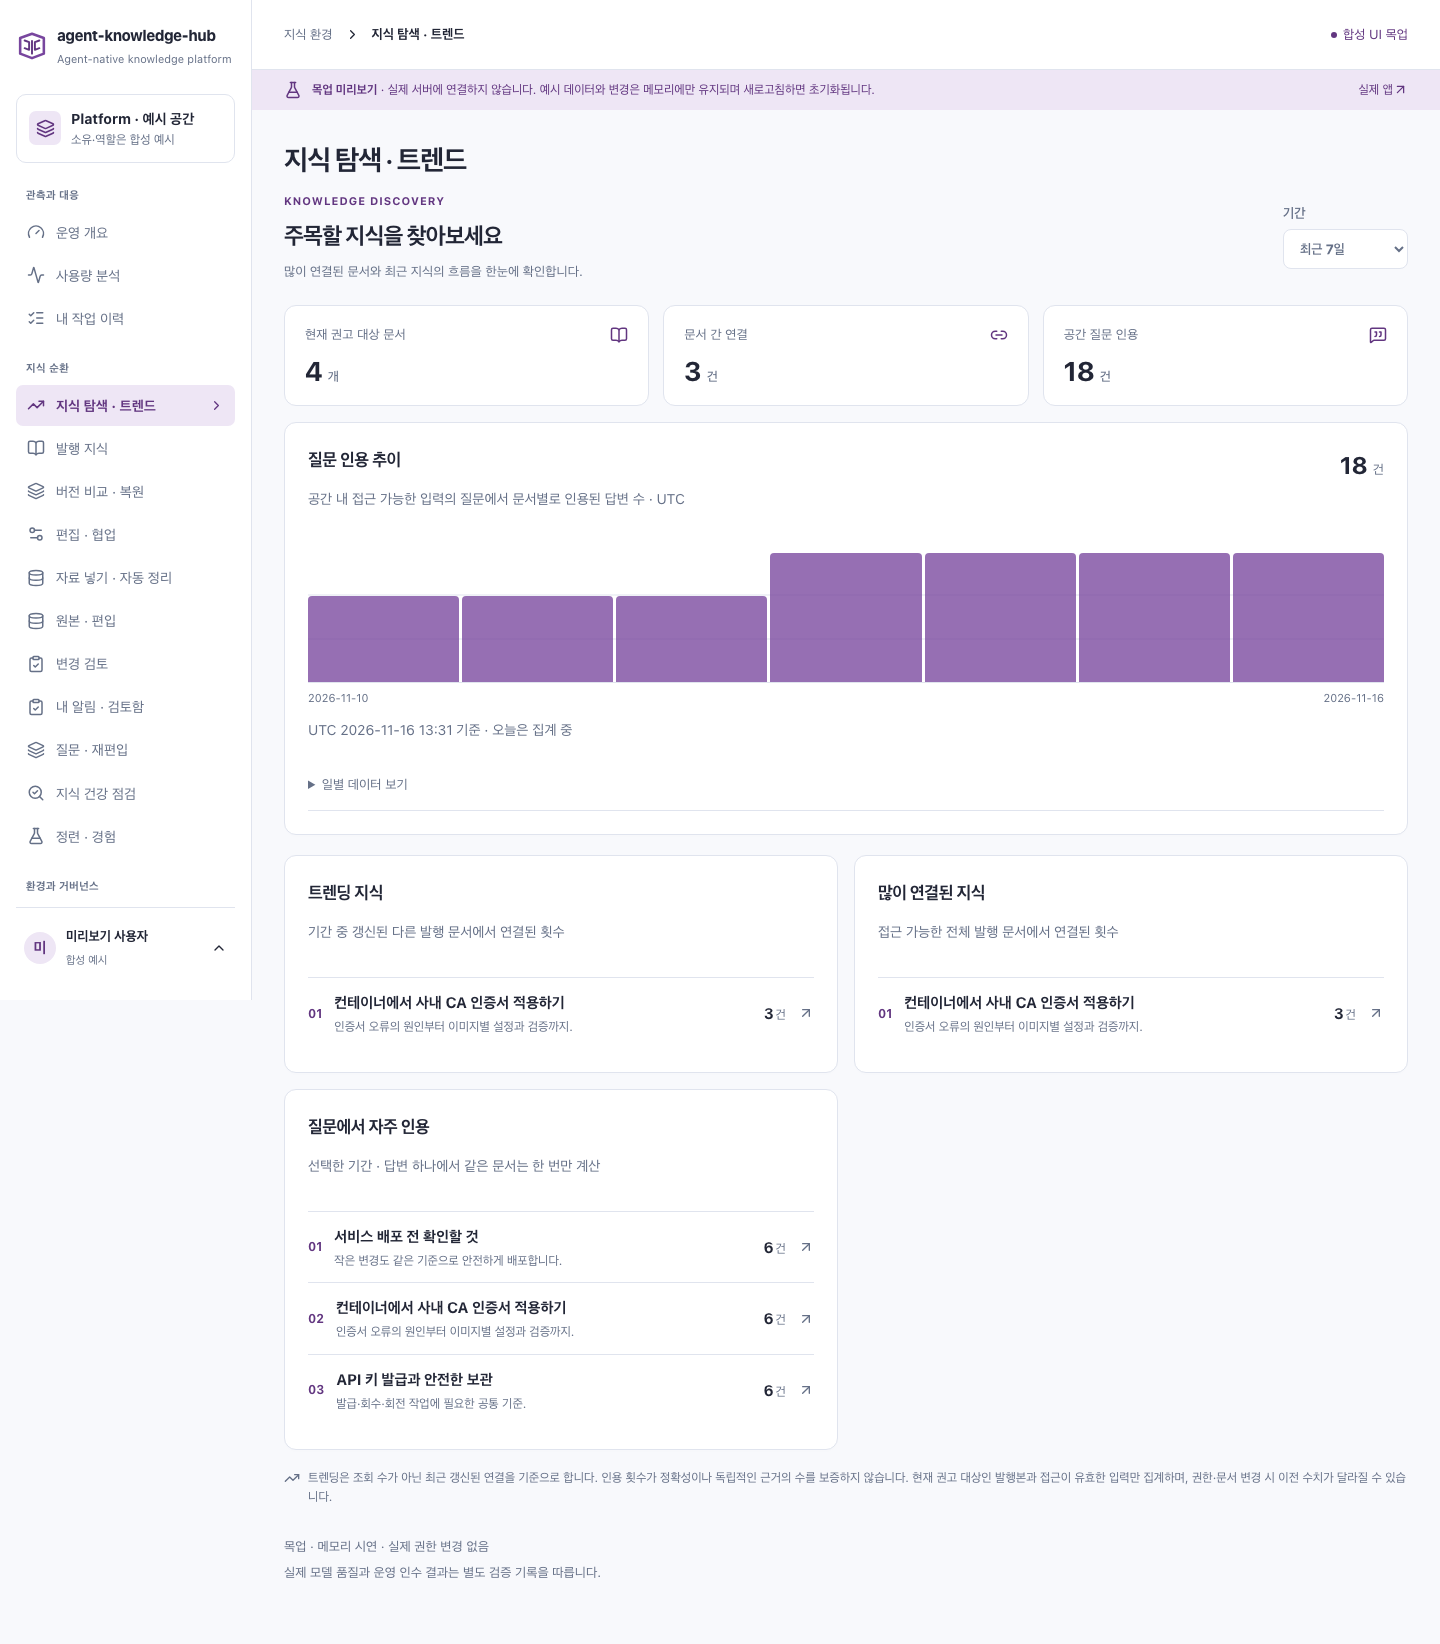
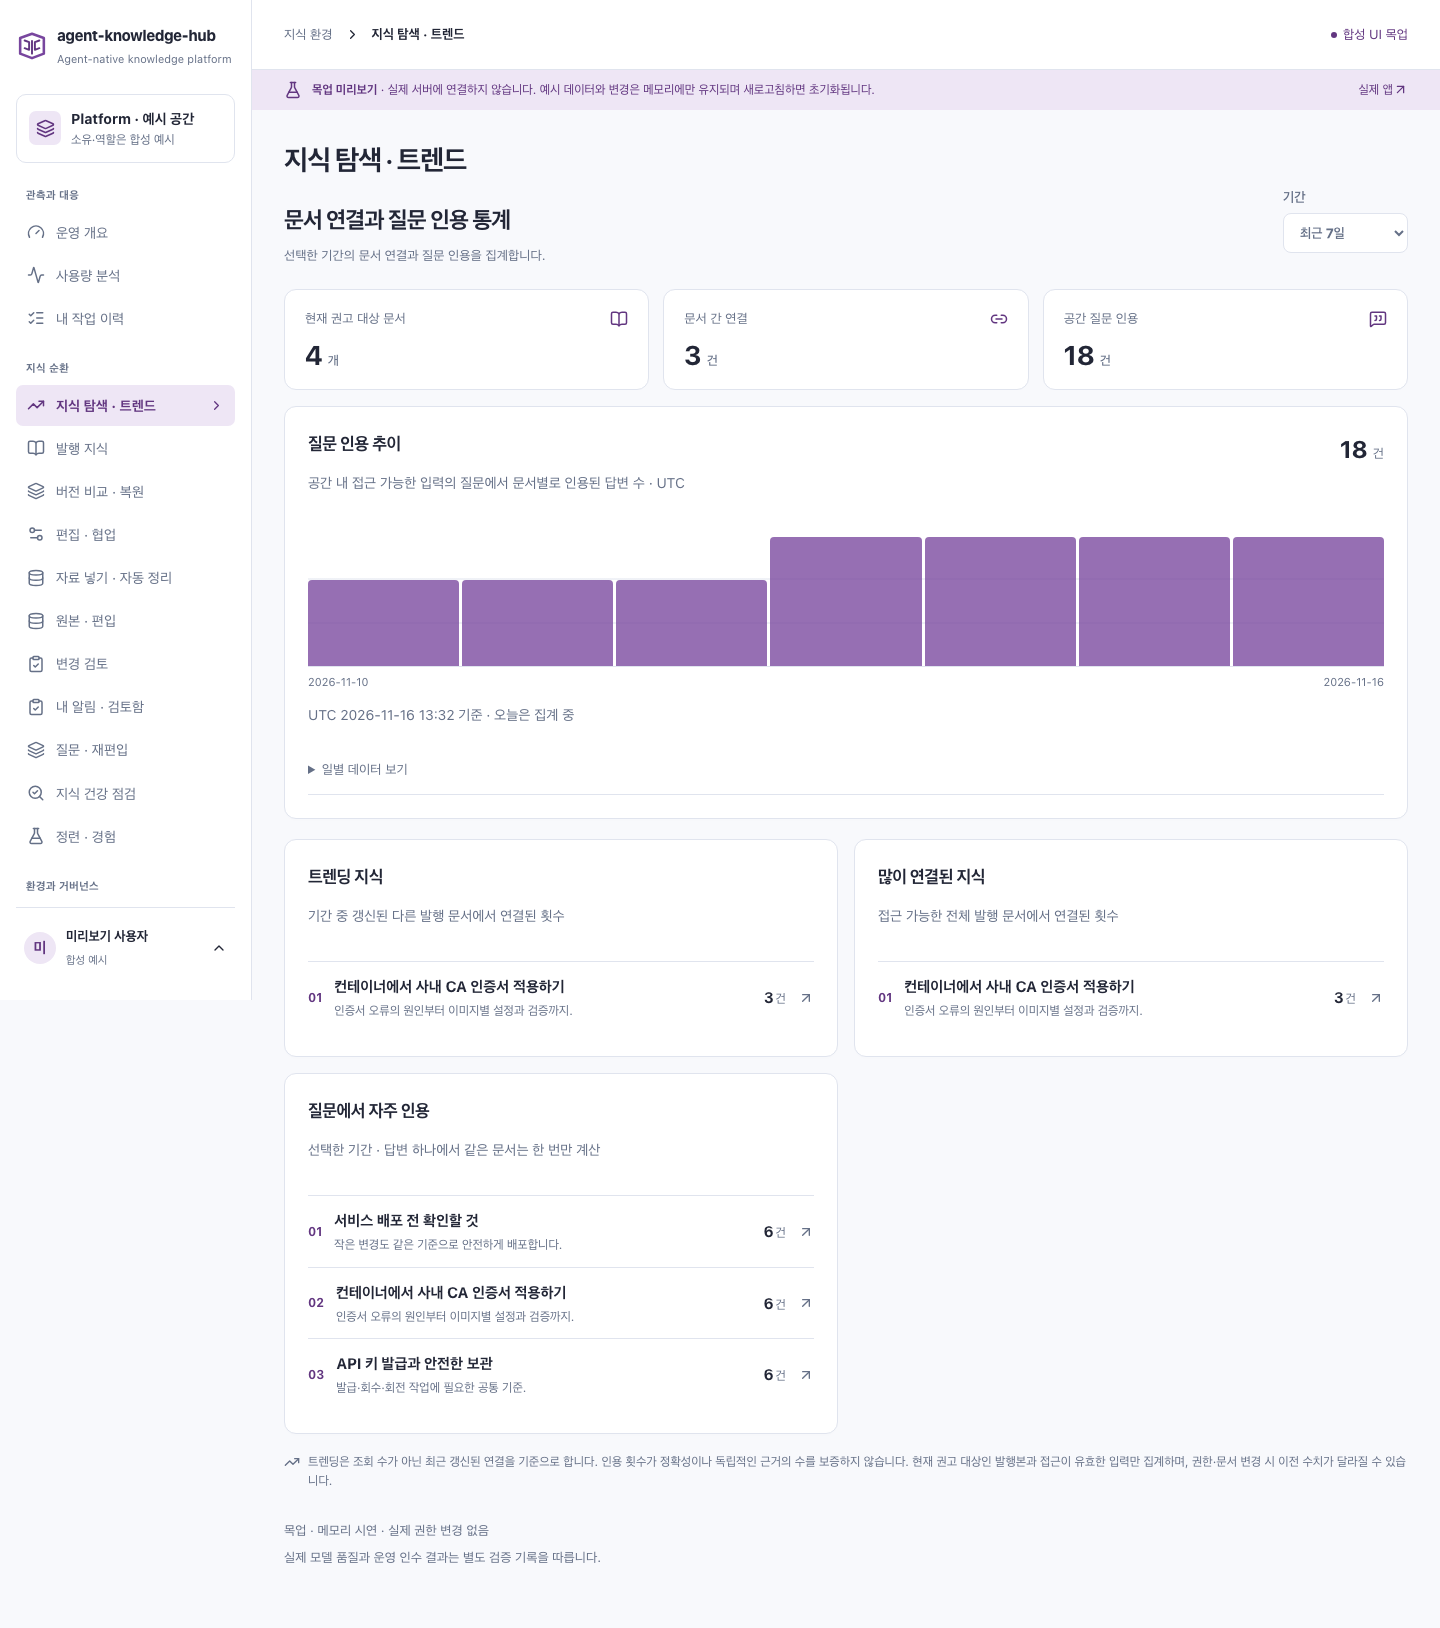
fix: describe discovery statistics with factual interface copy

diff --git a/src/operational/DiscoveryDashboard.tsx b/src/operational/DiscoveryDashboard.tsx
@@ -249,9 +249,8 @@ export function DiscoveryDashboard({
     <div className="discovery-dashboard">
       <div className="discovery-intro">
         <div>
-          <span className="discovery-eyebrow">KNOWLEDGE DISCOVERY</span>
-          <h2>주목할 지식을 찾아보세요</h2>
-          <p>많이 연결된 문서와 최근 지식의 흐름을 한눈에 확인합니다.</p>
+          <h2>문서 연결과 질문 인용 통계</h2>
+          <p>선택한 기간의 문서 연결과 질문 인용을 집계합니다.</p>
         </div>
         <label>
           기간{" "}
